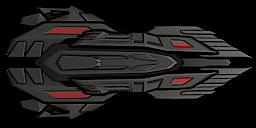
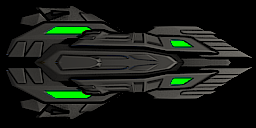
Game v1.0

diff --git a/Game_Test1/Main.cpp b/Game_Test1/Main.cpp
@@ -13,10 +13,10 @@
 #define SCREEN_WIDTH 640
 #define SCREEN_HEIGHT 480
 #define SHIP_SPEED 4
-#define NUM_SHOTS 3
+#define NUM_SHOTS 5
 #define SHOT_SPEED 7
-#define SHIP_WIDTH 128
-#define SHIP_HEIGHT 64
+#define SHIP_WIDTH 80
+#define SHIP_HEIGHT 48
 #define NUM_ROCKS 7
 
 struct projectile
@@ -43,8 +43,11 @@ struct globals
 	SDL_Renderer* renderer = nullptr;
 	SDL_Texture* background = nullptr;
 	SDL_Texture* ship = nullptr;
+	SDL_Texture* ship_yellow = nullptr;
+	SDL_Texture* ship_red = nullptr;
 	SDL_Texture* shot = nullptr;
 	SDL_Texture* special = nullptr;
+	SDL_Texture* charged = nullptr;
 	SDL_Texture* asteroid_red = nullptr;
 	SDL_Texture* asteroid_brown = nullptr;
 	SDL_Texture* asteroid_grey = nullptr;
@@ -82,6 +85,9 @@ void Start()
 	g.asteroid_brown = SDL_CreateTextureFromSurface(g.renderer, IMG_Load("Assets/meteorite_brown.PNG"));
 	g.asteroid_red = SDL_CreateTextureFromSurface(g.renderer, IMG_Load("Assets/meteorite_red.PNG"));
 	g.asteroid_grey = SDL_CreateTextureFromSurface(g.renderer, IMG_Load("Assets/meteorite_grey.PNG"));
+	g.ship_yellow = SDL_CreateTextureFromSurface(g.renderer, IMG_Load("Assets/ship_yellow.PNG"));
+	g.ship_red = SDL_CreateTextureFromSurface(g.renderer, IMG_Load("Assets/ship_red.PNG"));
+	g.charged = SDL_CreateTextureFromSurface(g.renderer, IMG_Load("Assets/charged.PNG"));
 	SDL_QueryTexture(g.background, nullptr, nullptr, &g.background_width, nullptr);
 
 	/*Mix_Init(MIX_INIT_OGG);
@@ -109,6 +115,9 @@ void Finish()
 	SDL_DestroyTexture(g.asteroid_brown);
 	SDL_DestroyTexture(g.asteroid_red);
 	SDL_DestroyTexture(g.asteroid_grey);
+	SDL_DestroyTexture(g.ship_yellow);
+	SDL_DestroyTexture(g.ship_red);
+	SDL_DestroyTexture(g.charged);
 	IMG_Quit();
 	SDL_DestroyRenderer(g.renderer);
 	SDL_DestroyWindow(g.window);
@@ -186,18 +195,18 @@ void MoveStuff()
 			}
 
 			if (g.SCORE >= 100 && g.SCORE < 250 && g.score_flag == 0) {
-				g.rocks[i].speed++;
-				g.ROCKS++;
+				g.rocks[i].speed += 2;
+				g.ROCKS += 2;
 				g.score_flag = 1;
 			}
 			else if (g.SCORE >= 250 && g.SCORE < 500 && g.score_flag == 1) {
-				g.rocks[i].speed += 2;
-				g.ROCKS += 2;
+				g.rocks[i].speed += 3;
+				g.ROCKS += 3;
 				g.score_flag = 2;
 			}
 			else if (g.SCORE >= 500 && g.score_flag == 2) {
-				g.rocks[i].speed += 3;
-				g.ROCKS += 3;
+				g.rocks[i].speed += 4;
+				g.ROCKS += 5;
 				g.score_flag = 3;
 			}
 		}
@@ -266,18 +275,13 @@ void MoveStuff()
 						if (g.rocks[j].color != 1) {
 							g.rocks[j].alive = false;
 							g.shots[i].alive = false;
-							g.power++;
 							g.SCORE += 5;
+							g.power++;
 							if (g.rocks[j].color == 0) {
-								if (g.rocks[j].height == 32) {
-									g.life++;
-								}
-								else if (g.rocks[j].height == 48) {
-									g.life += 3;
-								}
-								else if (g.rocks[j].height == 64) {
-									g.life += 5;
-								}
+									g.power++;
+							}
+							if (g.power > 100) {
+								g.power = 100;
 							}
 						}
 						else {
@@ -307,11 +311,17 @@ void MoveStuff()
 	{
 		if (g.super.x < SCREEN_WIDTH) {
 			g.super.x += SHOT_SPEED;
-			for (int j = 0; j < g.ROCKS; ++j) {
-				if (abs(g.super.x - g.rocks[j].x) < 96 && abs(g.super.y - g.rocks[j].y) < 48) {
-						g.rocks[j].alive = false;
+			for (int i = 0; i < g.ROCKS; ++i) {
+				if (abs(g.super.x - g.rocks[i].x) < 96 && abs(g.super.y - g.rocks[i].y) < 48) {
+						g.rocks[i].alive = false;
 						g.SCORE += 5;
 						g.power++;
+						if (g.rocks[i].color == 0) {
+							g.power++;
+						}
+						if (g.power > 100) {
+							g.power = 100;
+						}
 				}
 			}
 		}
@@ -334,9 +344,19 @@ void Draw()
 	target.x += g.background_width;
 	SDL_RenderCopy(g.renderer, g.background, nullptr, &target);
 
-	target = { g.ship_x, g.ship_y, SHIP_WIDTH, SHIP_HEIGHT };
-	SDL_RenderCopy(g.renderer, g.ship, nullptr, &target);
-
+	if (g.life <= 40) {
+		target = { g.ship_x, g.ship_y, SHIP_WIDTH, SHIP_HEIGHT };
+		SDL_RenderCopy(g.renderer, g.ship_red, nullptr, &target);
+	}
+	else if (g.life > 40 && g.life <= 70) {
+		target = { g.ship_x, g.ship_y, SHIP_WIDTH, SHIP_HEIGHT };
+		SDL_RenderCopy(g.renderer, g.ship_yellow, nullptr, &target);
+	}
+	else {
+		target = { g.ship_x, g.ship_y, SHIP_WIDTH, SHIP_HEIGHT };
+		SDL_RenderCopy(g.renderer, g.ship, nullptr, &target);
+	}
+	
 	for (int i = 0; i < NUM_SHOTS; ++i)
 	{
 		if (g.shots[i].alive)
@@ -372,6 +392,11 @@ void Draw()
 				SDL_RenderCopy(g.renderer, g.asteroid_brown, nullptr, &target);
 			}
 		}
+	}
+
+	for (int i = 0; i < g.power/20; ++i) {
+		target = { 16*i, 0, 16, 16 };
+		SDL_RenderCopy(g.renderer, g.charged, nullptr, &target);
 	}
 
 	SDL_RenderPresent(g.renderer);
